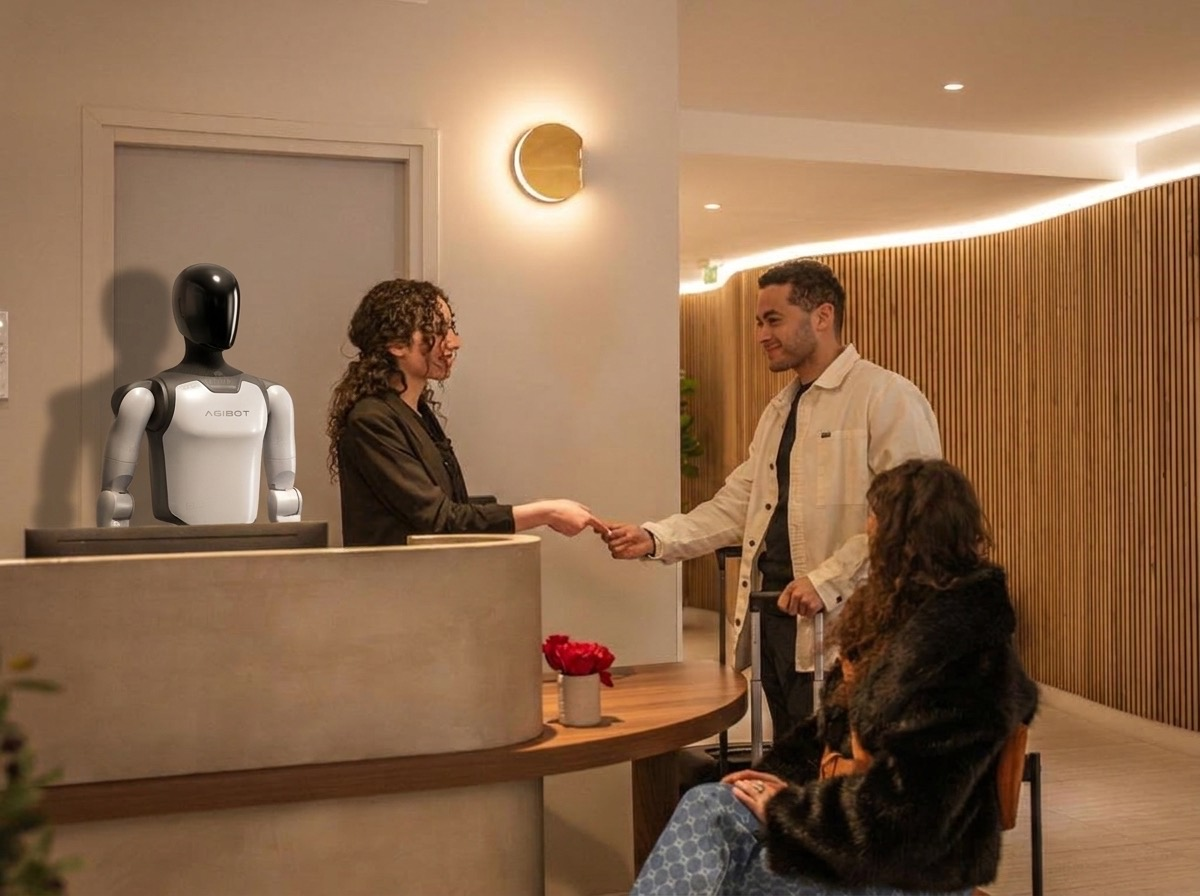
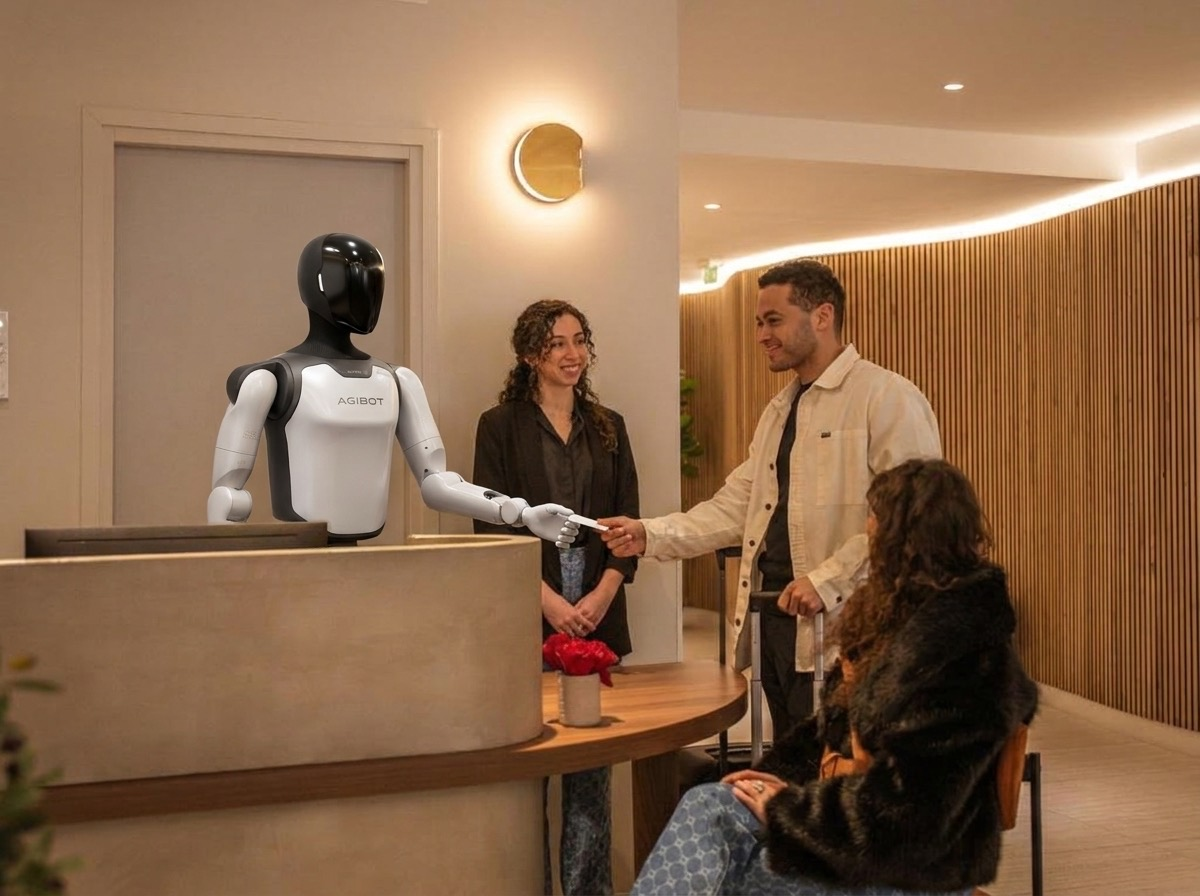
feat(deck): humanoid alternative runs check-in and check-out
The AgiBot A3 now leads the reception illustration, handing the key card to the
guest while the receptionist stands by.

Changed region(s): [[0.0308, 0.25, 0.5858, 0.75], [0.4317, 0.8438, 0.5242, 1.0]]

diff --git a/presentation.html b/presentation.html
@@ -698,16 +698,16 @@
   <div class="cart" style="--tint:#eef1fa;--c:var(--navy)">
     <div class="cart-txt">
       <div class="btags rise"><span class="btag" style="background:var(--navy)">P1 · Accueil</span><span class="btag" style="background:#2a2f63">Alternative</span></div>
-      <h1 class="rise" style="--d:.1s">Un humanoïde<br><em>à côté de l'hôtesse.</em></h1>
+      <h1 class="rise" style="--d:.1s">Un humanoïde<br><em>tient l'accueil.</em></h1>
       <div class="ksteps rise" style="--d:.2s">
         <div class="kstep"><span class="n">1</span><div><h5>L'AgiBot A3 se tient derrière le comptoir</h5><p>1,73 m, la taille d'une personne.</p></div></div>
-        <div class="kstep"><span class="n">2</span><div><h5>Il salue le client et répond à ses questions</h5><p>À la voix, avec des gestes.</p></div></div>
-        <div class="kstep"><span class="n">3</span><div><h5>L'hôtesse garde le check-in</h5><p>Le robot accueille, elle s'occupe du client.</p></div></div>
-        <div class="kstep"><span class="n">4</span><div><h5>Pour une étape suivante</h5><p>Les humanoïdes restent chers et encore peu autonomes.</p></div></div>
+        <div class="kstep"><span class="n">2</span><div><h5>Il fait le check-in</h5><p>Il retrouve la réservation dans Mews et remet la clé.</p></div></div>
+        <div class="kstep"><span class="n">3</span><div><h5>Il fait le check-out</h5><p>Le client rend sa clé et part sans attendre.</p></div></div>
+        <div class="kstep"><span class="n">4</span><div><h5>L'hôtesse reste à côté</h5><p>Elle prend le relais pour les demandes particulières.</p></div></div>
       </div>
-      <p class="src-n rise" style="--d:.3s">Illustration : photo de l'accueil de Quartier Libre Opéra, robot ajouté.</p>
+      <p class="src-n rise" style="--d:.3s">Illustration : accueil de Quartier Libre Opéra, robot ajouté.</p>
     </div>
-    <div class="cart-img rise" style="--d:.15s"><img src="assets/deck/a3-accueil.jpg" alt="AgiBot A3 derrière le comptoir d'accueil, à côté de l'hôtesse" style="object-position:30% 50%"></div>
+    <div class="cart-img rise" style="--d:.15s"><img src="assets/deck/a3-accueil.jpg" alt="AgiBot A3 derrière le comptoir d'accueil, remettant une clé au client" style="object-position:30% 50%"></div>
   </div>
   <div class="s-foot"><span>Loop × Quartier Libre Collection · P1 · Accueil · alternative</span><span class="n"></span></div>
 </section>
